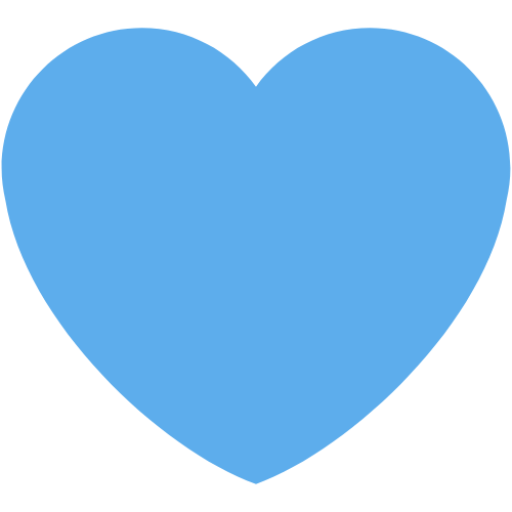
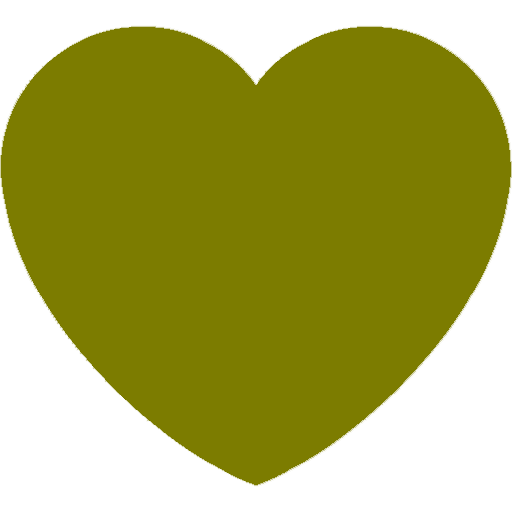
PFGomez

diff --git a/pages/padrino.html b/pages/padrino.html
@@ -39,7 +39,7 @@
         <div class="logo flex-item">
             <a href="../index.html"><img src="../images/logo-main.png" alt="logo"></a>
         </div>
-        <h1 class="h1">PROTECTORA DE ANIMALES</h1>
+        <h1 class="h1">Protectora de Animales</h1>
         <nav class="navbar navbar-expand-lg bg-body-tertiary">
             <div class="container-fluid menu">
                 <button class="navbar-toggler" type="button" data-bs-toggle="collapse" data-bs-target="#navbarNav"
@@ -105,7 +105,7 @@
 
                 <div class="form-input">
                     <label for="telephone">Telefono/Celular:</label>
-                    <input type="number" placeholder="Tu respuesta" required>
+                    <input type="tel" placeholder="Tu respuesta" required>
                 </div>
 
                 <div class="form-input">
@@ -121,7 +121,7 @@
 
                 <div class="form-input">
                     <label for="credit card number">Numero de tarjeta de credito:</label>
-                    <input type="number" required placeholder="****-****-****-****">
+                    <input type="tel" required placeholder="****-****-****-****">
                 </div>
 
                 <div class="form-input">
@@ -131,7 +131,7 @@
 
                 <div class="form-input">
                     <label for="import">Importe mensual a donar (USD):</label>
-                    <input type="number" placeholder="Tu respuesta" required>
+                    <input type="tel" placeholder="Tu respuesta" required>
                 </div>
 
                 <div class="form-input">
@@ -204,7 +204,7 @@
 
                 <div class="form-input">
                     <label for="telephone-transit">Telefono/Celular:</label>
-                    <input id="telephone-transit" placeholder="Tu respuesta" required type="number">
+                    <input id="telephone-transit" placeholder="Tu respuesta" required type="tel">
                 </div>
 
                 <div class="form-input">
@@ -214,7 +214,7 @@
 
                 <div class="form-input">
                     <label for="number-adress-transit">Numero de puerta:</label>
-                    <input id="number-adress-transit" placeholder="Tu respuesta" required type="number">
+                    <input id="number-adress-transit" placeholder="Tu respuesta" required type="tel">
                 </div>
 
                 <div class="form-input">

diff --git a/css/style.css b/css/style.css
@@ -94,6 +94,13 @@
     grid-template-rows: auto auto auto auto auto;
     grid-template-areas: "header" "section1" "section2" "section3" "footer";
   }
+  .index-container .section1 carousel-inner {
+    margin-top: 20px;
+    padding: 10px;
+    background-color: rgba(94, 94, 0, 0.6431372549);
+    width: 350px;
+    height: 300px;
+  }
 }
 @media screen and (max-width: 480px) {
   .index-container {
@@ -102,6 +109,13 @@
     grid-template-columns: auto;
     grid-template-rows: auto auto auto auto auto;
     grid-template-areas: "header" "section1" "section2" "section3" "footer";
+  }
+  .index-container .section1 carousel-inner {
+    margin-top: 20px;
+    padding: 10px;
+    background-color: rgba(94, 94, 0, 0.6431372549);
+    width: 350px;
+    height: 300px;
   }
 }
 .index-container .section1 {
@@ -200,12 +214,38 @@
   grid-template-rows: auto auto auto auto auto;
   grid-template-areas: "header" "colaboracion-section1" "colaboracion-section2" "colaboracion-section3" "footer";
 }
-@media screen and (max-width: 768px) {
+@media screen and (max-width: 1080px) {
   .colaboracion-container {
     display: grid;
     grid-template-columns: auto;
     grid-template-rows: auto auto auto auto auto;
     grid-template-areas: "header" "colaboracion-section1" "colaboracion-section2" "colaboracion-section3" "footer";
+  }
+  .colaboracion-container .colaboracion-section2 {
+    border-bottom: 3px solid #7c7c00;
+    margin-bottom: 50px;
+  }
+  .colaboracion-container .colaboracion-section2 .ul-box {
+    display: flex;
+    flex-direction: column;
+    justify-content: center;
+  }
+  .colaboracion-container .colaboracion-section2 ul {
+    padding: 10px;
+    border-left: 3px solid #7c7c00;
+    font-family: "Montserrat", sans-serif;
+    text-align: left;
+  }
+  .colaboracion-container .colaboracion-section3 .ul-box {
+    display: flex;
+    flex-direction: column;
+    justify-content: center;
+  }
+  .colaboracion-container .colaboracion-section3 ul {
+    padding: 10px;
+    border-left: 3px solid #7c7c00;
+    font-family: "Montserrat", sans-serif;
+    text-align: left;
   }
 }
 @media screen and (max-width: 480px) {

diff --git a/scss/_body.scss b/scss/_body.scss
@@ -27,6 +27,16 @@
         "section2"
         "section3"
         "footer";
+        
+        .section1 {
+          carousel-inner {
+          margin-top: 20px;
+          padding: 10px;
+          background-color: #5e5e00a4;
+          width: 350px;
+          height: 300px;
+        }
+      }
     }
 
     @media screen and (max-width: 480px) {
@@ -40,6 +50,15 @@
         "section2"
         "section3"
         "footer";
+        .section1 {
+          carousel-inner {
+          margin-top: 20px;
+          padding: 10px;
+          background-color: #5e5e00a4;
+          width: 350px;
+          height: 300px;
+        }
+      }
     }
 
     /* section1 de index */
@@ -170,7 +189,7 @@
       "colaboracion-section3"
       "footer";
 
-    @media screen and (max-width: 768px) {
+    @media screen and (max-width: 1080px) {
       display: grid;
       grid-template-columns: auto;
       grid-template-rows: auto auto auto auto auto;
@@ -180,6 +199,38 @@
         "colaboracion-section2"
         "colaboracion-section3"
         "footer";
+        .colaboracion-section2 {
+          border-bottom: 3px solid $greenTheme;
+          margin-bottom: 50px;
+      
+          .ul-box {
+            display: flex;
+            flex-direction: column;
+            justify-content: center;
+          }
+      
+          ul {
+            padding: 10px;
+            border-left: 3px solid $greenTheme;
+            font-family: $fontletter;
+            text-align: left;
+          }
+        }
+      
+        .colaboracion-section3 {
+          .ul-box {
+            display: flex;
+            flex-direction: column;
+            justify-content: center;
+          }
+      
+          ul {
+            padding: 10px;
+            border-left: 3px solid $greenTheme;
+            font-family: $fontletter;
+            text-align: left;
+          }
+        }
     }
 
     @media screen and (max-width: 480px) {

diff --git a/pages/adopcion.html b/pages/adopcion.html
@@ -37,7 +37,7 @@
     <div class="logo flex-item">
       <a href="../index.html"><img src="../images/logo-main.png" alt="logo"></a>
     </div>
-    <h1 class="h1">PROTECTORA DE ANIMALES</h1>
+    <h1 class="h1">Protectora de Animales</h1>
     <nav class="navbar navbar-expand-lg bg-body-tertiary">
       <div class="container-fluid menu">
         <button class="navbar-toggler" type="button" data-bs-toggle="collapse" data-bs-target="#navbarNav"

diff --git a/pages/contacto.html b/pages/contacto.html
@@ -35,7 +35,7 @@
     <div class="logo flex-item">
       <a href="../index.html"><img src="../images/logo-main.png" alt="logo"></a>
     </div>
-    <h1 class="h1">PROTECTORA DE ANIMALES</h1>
+    <h1 class="h1">Protectora de Animales</h1>
     <nav class="navbar navbar-expand-lg bg-body-tertiary">
       <div class="container-fluid menu">
         <button class="navbar-toggler" type="button" data-bs-toggle="collapse" data-bs-target="#navbarNav"

diff --git a/pages/colaboracion.html b/pages/colaboracion.html
@@ -36,7 +36,7 @@
       <a href="../index.html"><img src="../images/logo-main.png" alt="logo"></a>
     </div>
     <div>
-      <h1 class="h1">PROTECTORA DE ANIMALES</h1>
+      <h1 class="h1">Protectora de Animales</h1>
     </div>
     <nav class="navbar navbar-expand-lg bg-body-tertiary">
       <div class="container-fluid menu">
